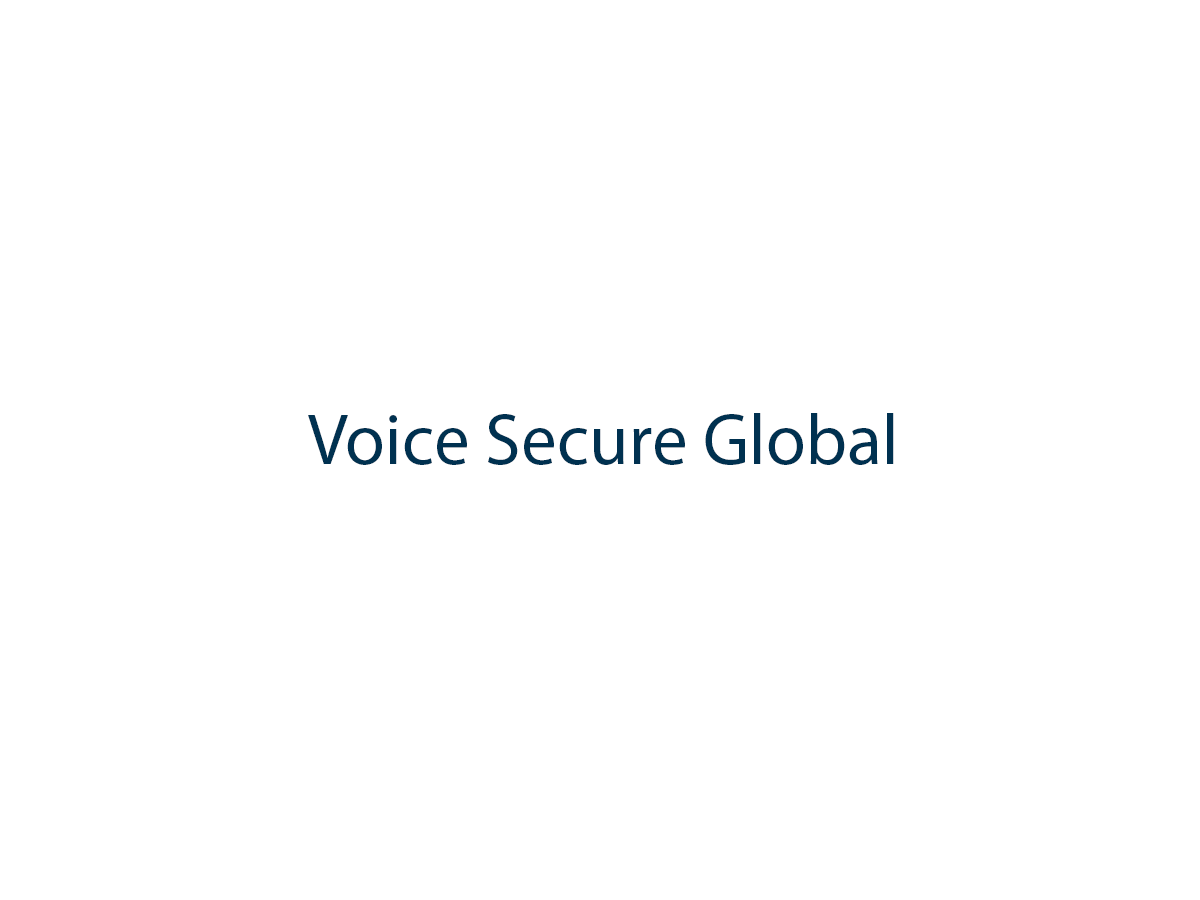
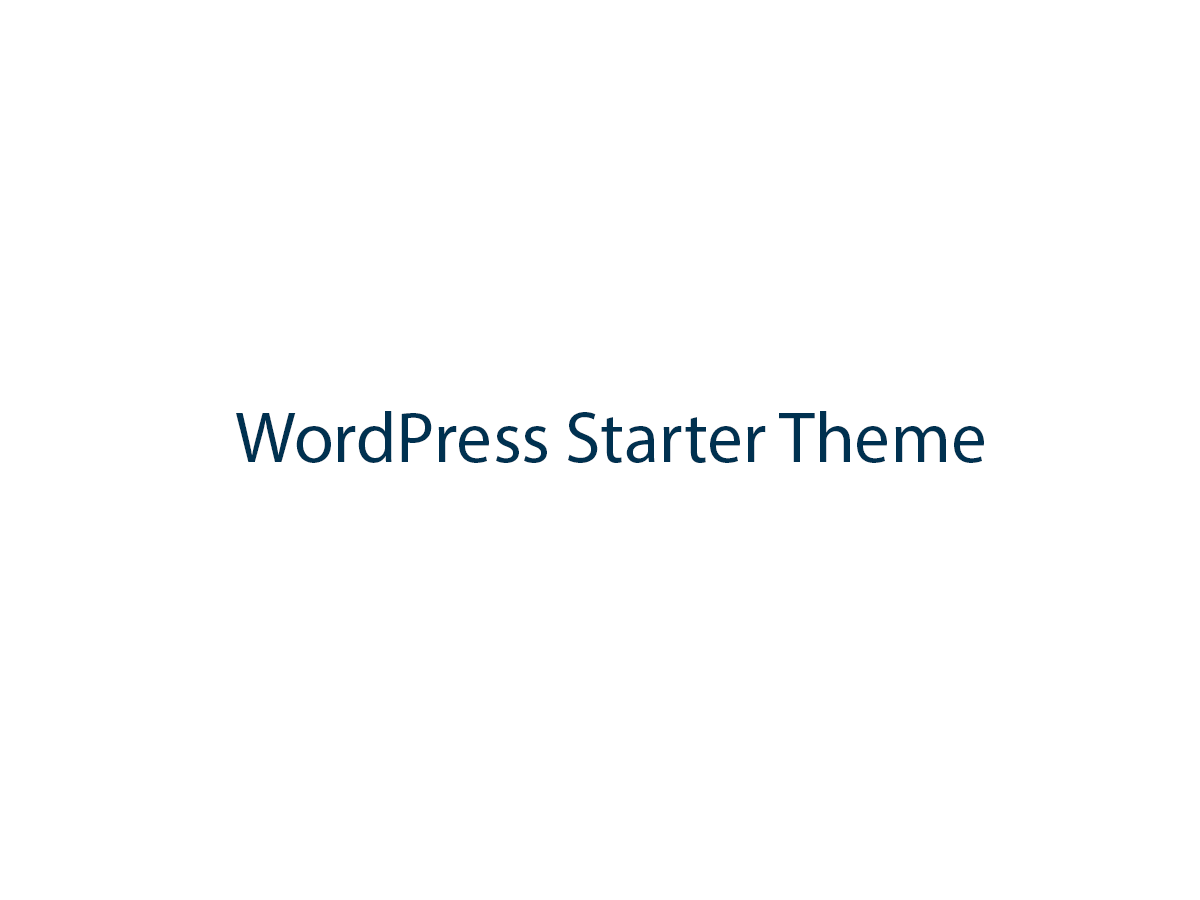
Update README.md with project details and installation instructions; replace default _s content

Changed region(s): [[0.185, 0.4356, 0.8325, 0.5289]]

diff --git a/README.md b/README.md
@@ -1,70 +1,75 @@
-[![Build Status](https://travis-ci.org/Automattic/_s.svg?branch=master)](https://travis-ci.org/Automattic/_s)
+# WP Starter Theme
 
-_s
-===
+`WP Starter Theme` is a WordPress starter theme built on top of Underscores and extended with custom widgets, customizer settings, Bootstrap-based styling, and bundled frontend scripts.
 
-Hi. I'm a starter theme called `_s`, or `underscores`, if you like. I'm a theme meant for hacking so don't use me as a Parent Theme. Instead try turning me into the next, most awesome, WordPress theme out there. That's what I'm here for.
+This repository no longer uses the default `_s` README content. The theme in this project is a customized starter theme intended to be used directly and extended for site-specific development.
 
-My ultra-minimal CSS might make me look like theme tartare but that means less stuff to get in your way when you're designing your awesome theme. Here are some of the other more interesting things you'll find here:
+## Requirements
 
-* A modern workflow with a pre-made command-line interface to turn your project into a more pleasant experience.
-* A just right amount of lean, well-commented, modern, HTML5 templates.
-* A custom header implementation in `inc/custom-header.php`. Just add the code snippet found in the comments of `inc/custom-header.php` to your `header.php` template.
-* Custom template tags in `inc/template-tags.php` that keep your templates clean and neat and prevent code duplication.
-* Some small tweaks in `inc/template-functions.php` that can improve your theming experience.
-* A script at `js/navigation.js` that makes your menu a toggled dropdown on small screens (like your phone), ready for CSS artistry. It's enqueued in `functions.php`.
-* 2 sample layouts in `sass/layouts/` made using CSS Grid for a sidebar on either side of your content. Just uncomment the layout of your choice in `sass/style.scss`.
-Note: `.no-sidebar` styles are automatically loaded.
-* Smartly organized starter CSS in `style.css` that will help you to quickly get your design off the ground.
-* Full support for `WooCommerce plugin` integration with hooks in `inc/woocommerce.php`, styling override woocommerce.css with product gallery features (zoom, swipe, lightbox) enabled.
-* Licensed under GPLv2 or later. :) Use it to make something cool.
+- WordPress 4.5 or later
+- PHP 7.3 or later
 
-Installation
----------------
+## Theme Details
 
-### Requirements
+- Theme name: `WP Starter Theme`
+- Text domain: `wp-starter-theme`
+- Author: `H M Masum Billah`
+- License: `GNU General Public License v2 or later`
 
-`_s` requires the following dependencies:
+## Included Features
 
-- [Node.js](https://nodejs.org/)
-- [Composer](https://getcomposer.org/)
+- Two registered menu locations: `Primary` and `Mobile`
+- One main sidebar plus four footer widget areas
+- Custom widget: `About Company`
+- Custom widget: `Post Filter Widget`
+- Support for `custom-logo`
+- Support for `post-thumbnails`
+- Support for HTML5 markup
+- Support for WooCommerce
+- Jetpack compatibility hooks
+- Bundled assets for Bootstrap and Owl Carousel
 
-### Quick Start
+## Installation
 
-Clone or download this repository, change its name to something else (like, say, `megatherium-is-awesome`), and then you'll need to do a six-step find and replace on the name in all the templates.
+1. Copy this theme folder into `wp-content/themes/`.
+2. Activate `WP Starter Theme` from `Appearance > Themes`.
+3. Assign menus to the `Primary` and `Mobile` theme locations.
+4. Configure widgets in the sidebar and footer widget areas as needed.
 
-1. Search for `'_s'` (inside single quotations) to capture the text domain and replace with: `'megatherium-is-awesome'`.
-2. Search for `_s_` to capture all the functions names and replace with: `megatherium_is_awesome_`.
-3. Search for `Text Domain: _s` in `style.css` and replace with: `Text Domain: megatherium-is-awesome`.
-4. Search for <code>&nbsp;_s</code> (with a space before it) to capture DocBlocks and replace with: <code>&nbsp;Megatherium_is_Awesome</code>.
-5. Search for `_s-` to capture prefixed handles and replace with: `megatherium-is-awesome-`.
-6. Search for `_S_` (in uppercase) to capture constants and replace with: `MEGATHERIUM_IS_AWESOME_`.
+## Development Notes
 
-Then, update the stylesheet header in `style.css`, the links in `footer.php` with your own information and rename `_s.pot` from `languages` folder to use the theme's slug. Next, update or delete this readme.
+- There is no `Node.js` or `Composer` build pipeline configured in this repository.
+- The main theme bootstrap starts in `functions.php`.
+- Theme classes are organized under `inc/classes/`, `inc/customizer/`, `inc/widgets/`, and `inc/helpers/`.
+- Frontend assets are stored in `assets/css/`, `assets/js/`, and `assets/images/`.
+- Translation files are stored in `languages/`.
 
-### Setup
+## Project Structure
 
-To start using all the tools that come with `_s`  you need to install the necessary Node.js and Composer dependencies :
-
-```sh
-$ composer install
-$ npm install
+```text
+.
+|-- assets/
+|   |-- css/
+|   |-- images/
+|   `-- js/
+|-- inc/
+|   |-- classes/
+|   |-- customizer/
+|   |-- helpers/
+|   |-- traits/
+|   `-- widgets/
+|-- languages/
+|-- template-parts/
+|-- functions.php
+|-- style.css
+`-- readme.txt
 ```
 
-### Available CLI commands
+## Credits
 
-`_s` comes packed with CLI commands tailored for WordPress theme development :
+- Based on [Underscores](https://underscores.me/)
+- Includes bundled Bootstrap and Owl Carousel assets
 
-- `composer lint:wpcs` : checks all PHP files against [PHP Coding Standards](https://developer.wordpress.org/coding-standards/wordpress-coding-standards/php/).
-- `composer lint:php` : checks all PHP files for syntax errors.
-- `composer make-pot` : generates a .pot file in the `languages/` directory.
-- `npm run compile:css` : compiles SASS files to css.
-- `npm run compile:rtl` : generates an RTL stylesheet.
-- `npm run watch` : watches all SASS files and recompiles them to css when they change.
-- `npm run lint:scss` : checks all SASS files against [CSS Coding Standards](https://developer.wordpress.org/coding-standards/wordpress-coding-standards/css/).
-- `npm run lint:js` : checks all JavaScript files against [JavaScript Coding Standards](https://developer.wordpress.org/coding-standards/wordpress-coding-standards/javascript/).
-- `npm run bundle` : generates a .zip archive for distribution, excluding development and system files.
+## License
 
-Now you're ready to go! The next step is easy to say, but harder to do: make an awesome WordPress theme. :)
-
-Good luck!
+This theme is distributed under the GNU General Public License v2 or later. See `LICENSE` for details.
